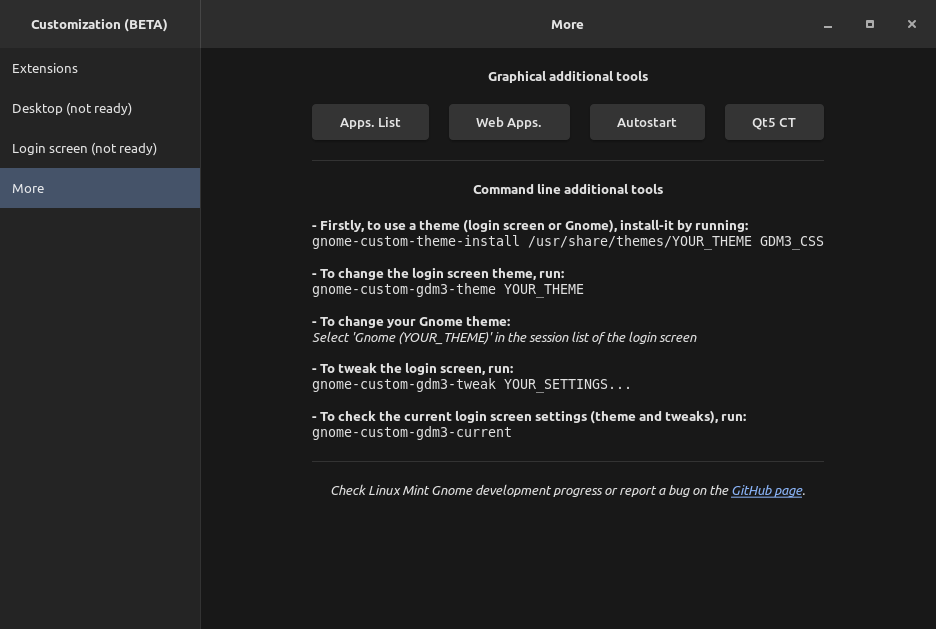
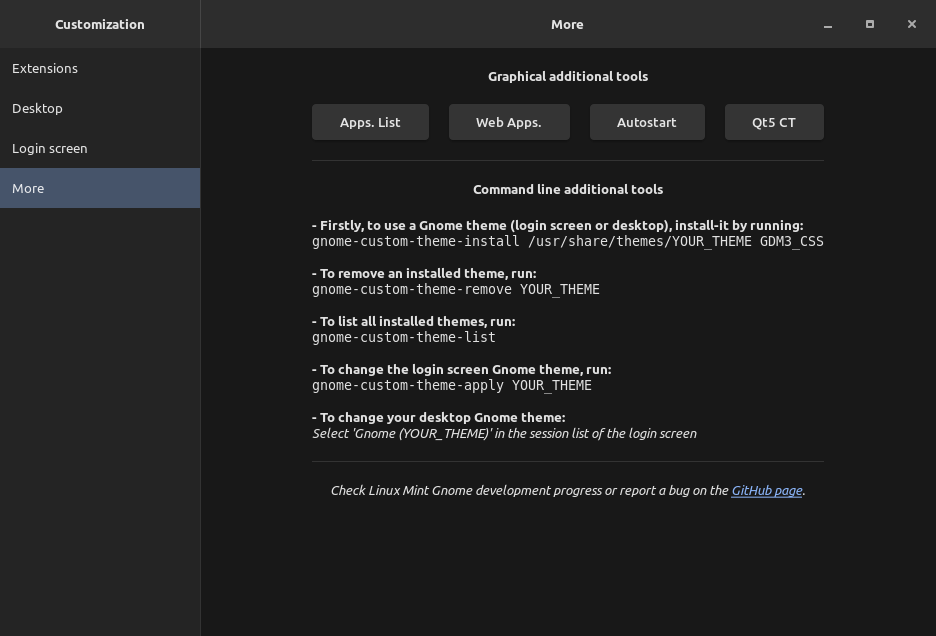
modified:   README.md 	renamed:    deb/gnome-customization/usr/bin/gnome-custom-gdm3-reset -> deb/gnome-customization/usr/bin/gdm3-reset 	deleted:    deb/gnome-customization/usr/bin/gnome-custom-gdm3-current 	deleted:    deb/gnome-customization/usr/bin/gnome-custom-gdm3-tweak 	renamed:    deb/gnome-

diff --git a/README.md b/README.md
@@ -95,8 +95,6 @@ styles, extensions, appearance, applications grid, user's folders paths, Gnome, 
 
 ## Remaining work
 
-- Gnome Customization: Startup optimization (runu)
-- Gnome Customization: Desktop + Login Screen tabs
 - Desktop Icons: Improve localization
 - PUBLISH A NEW ISO FILE
 - Nautilus extension: Folder color switch
